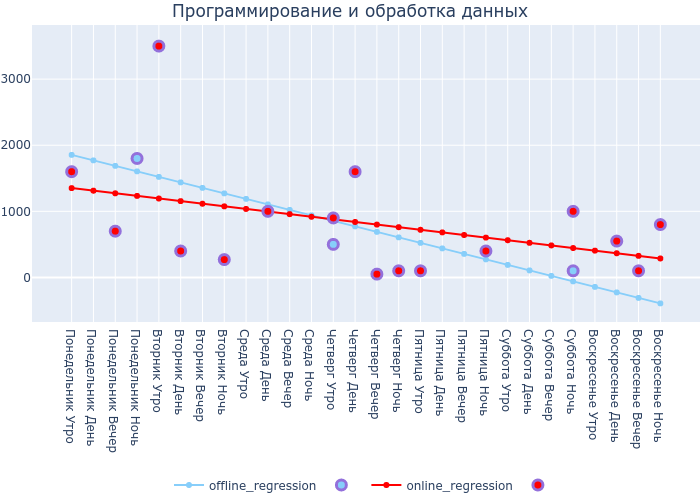
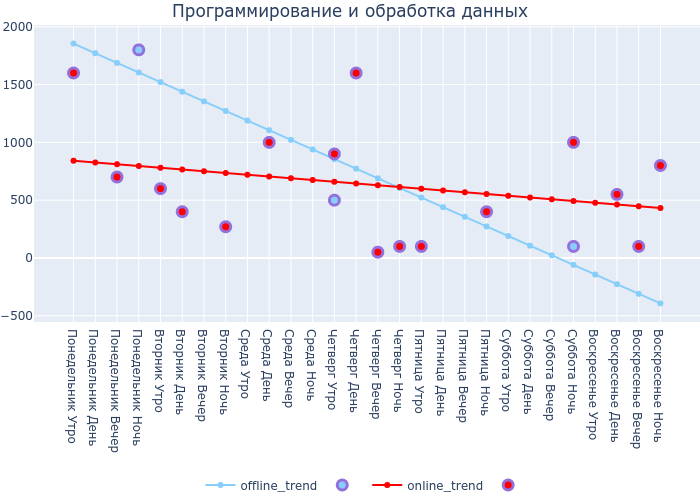
Quantiles instead of z-score

diff --git a/mcc_graph.py b/mcc_graph.py
@@ -8,6 +8,12 @@ from baskets import kras
 data = pd.read_csv("final.csv", sep=";")
 
 
+def quantile_outliers(sample, q25, q75):
+    more = sample["transaction_amt"] >= q25 - 1.5 * (q75 - q25)
+    less = sample["transaction_amt"] <= q75 + 1.5 * (q75 - q25)
+    return sample[more & less]
+
+
 def data_time(category_data, category, normalize=True):
     """Expected data about one category"""
 
@@ -15,9 +21,16 @@ def data_time(category_data, category, normalize=True):
                                    "online_transaction_flg", "day_time"]]
     online = category_data[category_data["online_transaction_flg"] == "online"]
     offline = category_data[category_data["online_transaction_flg"] == "offline"]
+    online_quant75 = online.quantile(0.75).to_dict()["transaction_amt"]
+    online_quant25 = online.quantile(0.25).to_dict()["transaction_amt"]
+    offline_quant75 = offline.quantile(0.75).to_dict()["transaction_amt"]
+    offline_quant25 = offline.quantile(0.25).to_dict()["transaction_amt"]
+
     if normalize:
-        online = online[(np.abs(stats.zscore(online["transaction_amt"])) < 3)]
-        offline = offline[(np.abs(stats.zscore(offline["transaction_amt"])) < 3)]
+        # # online = online[(np.abs(stats.zscore(online["transaction_amt"])) < 3)]
+        # # offline = offline[(np.abs(stats.zscore(offline["transaction_amt"])) < 3)]
+        online = quantile_outliers(online, online_quant25, online_quant75)
+        offline = quantile_outliers(offline, offline_quant25, offline_quant75)
 
     online = online.groupby("day_time").sum().reset_index()
     offline = offline.groupby("day_time").sum().reset_index()
@@ -85,10 +98,10 @@ def create_plot(data):
                           margin=dict(l=0, r=0, t=25, b=0))
         fig.update_traces(hoverinfo="all", hovertemplate="Аргумент: %{x}<br>Функция: %{y}")
         print(mcc)
-        fig.write_image(f"mcc_graphs/{mcc.replace('/', '|')}.png")
+        # fig.write_image(f"mcc_graphs/{mcc.replace('/', '|')}.png")
         # fig.write_image(f"{mcc.replace('/', '|')}.png")
-        # break
-
+        fig.show()
+        break
 
 
 create_plot(data)

diff --git a/smth.py b/smth.py
@@ -1,9 +1,11 @@
 import numpy as np
 import plotly.express as px
 import pandas as pd
-
+data_i = pd.read_csv("tink.csv")
+m_data = pd.read_csv('modified.csv')
 data = pd.read_csv('modified.csv')
 mcc = pd.read_csv("mcc_code.csv", sep=";", encoding="Windows-1251")
+
 
 mcc = dict(zip(mcc["mcc"], mcc["значение mcc"]))
 
@@ -20,11 +22,15 @@ for code in data["code"].unique():
         data = data[data['code'] != code]
 
 # print(data[data["code"]=="Аэрофлот"][["transaction_amt", "day_time","customer_id"]].reset_index())
-# print(i)
+print(i)
 #
 data = data.reset_index()
 data = data[["online_transaction_flg", "code", "category", "transaction_amt", "customer_id", "day_time"]]
-data.to_csv("final.csv",sep = ";")
+# data.to_csv("final.csv",sep = ";")
+print(len(data_i["code"].unique()))
+print(len(m_data["code"].unique()))
+
+print(len(data["code"].unique()))
 
 # week = ("Понедельник ", "Вторник ", "Среда ", "Четверг ", "Пятница ", "Суббота ", "Воскресенье ")
 #
